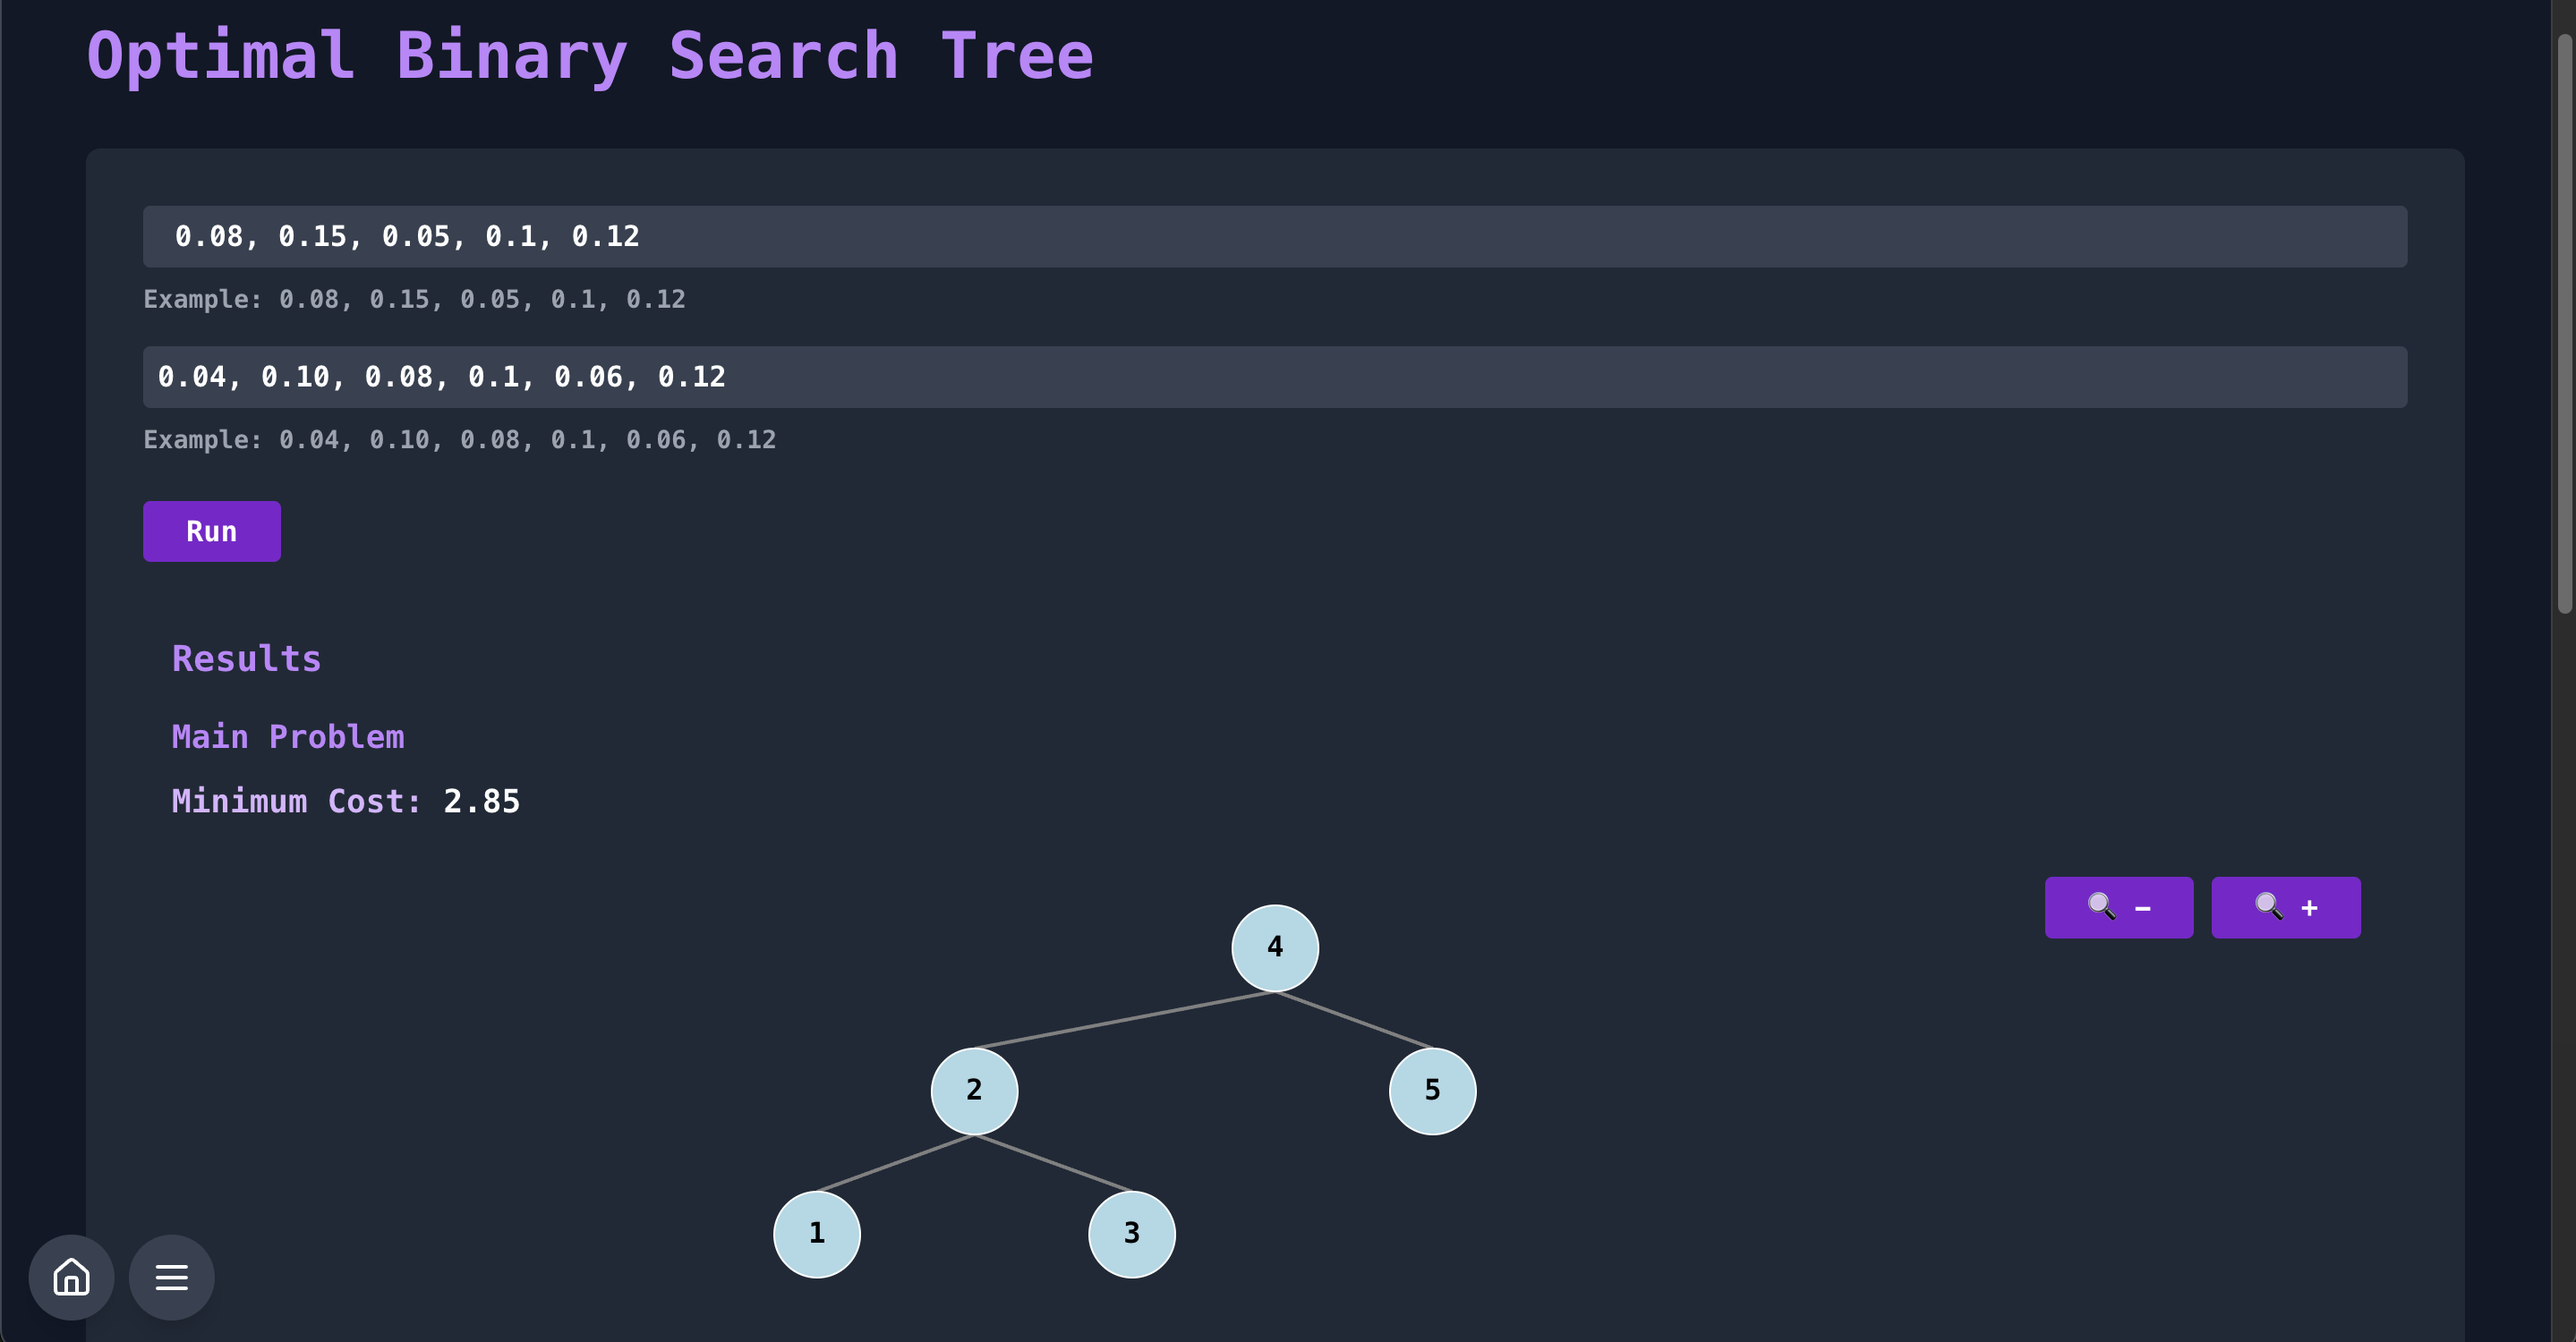
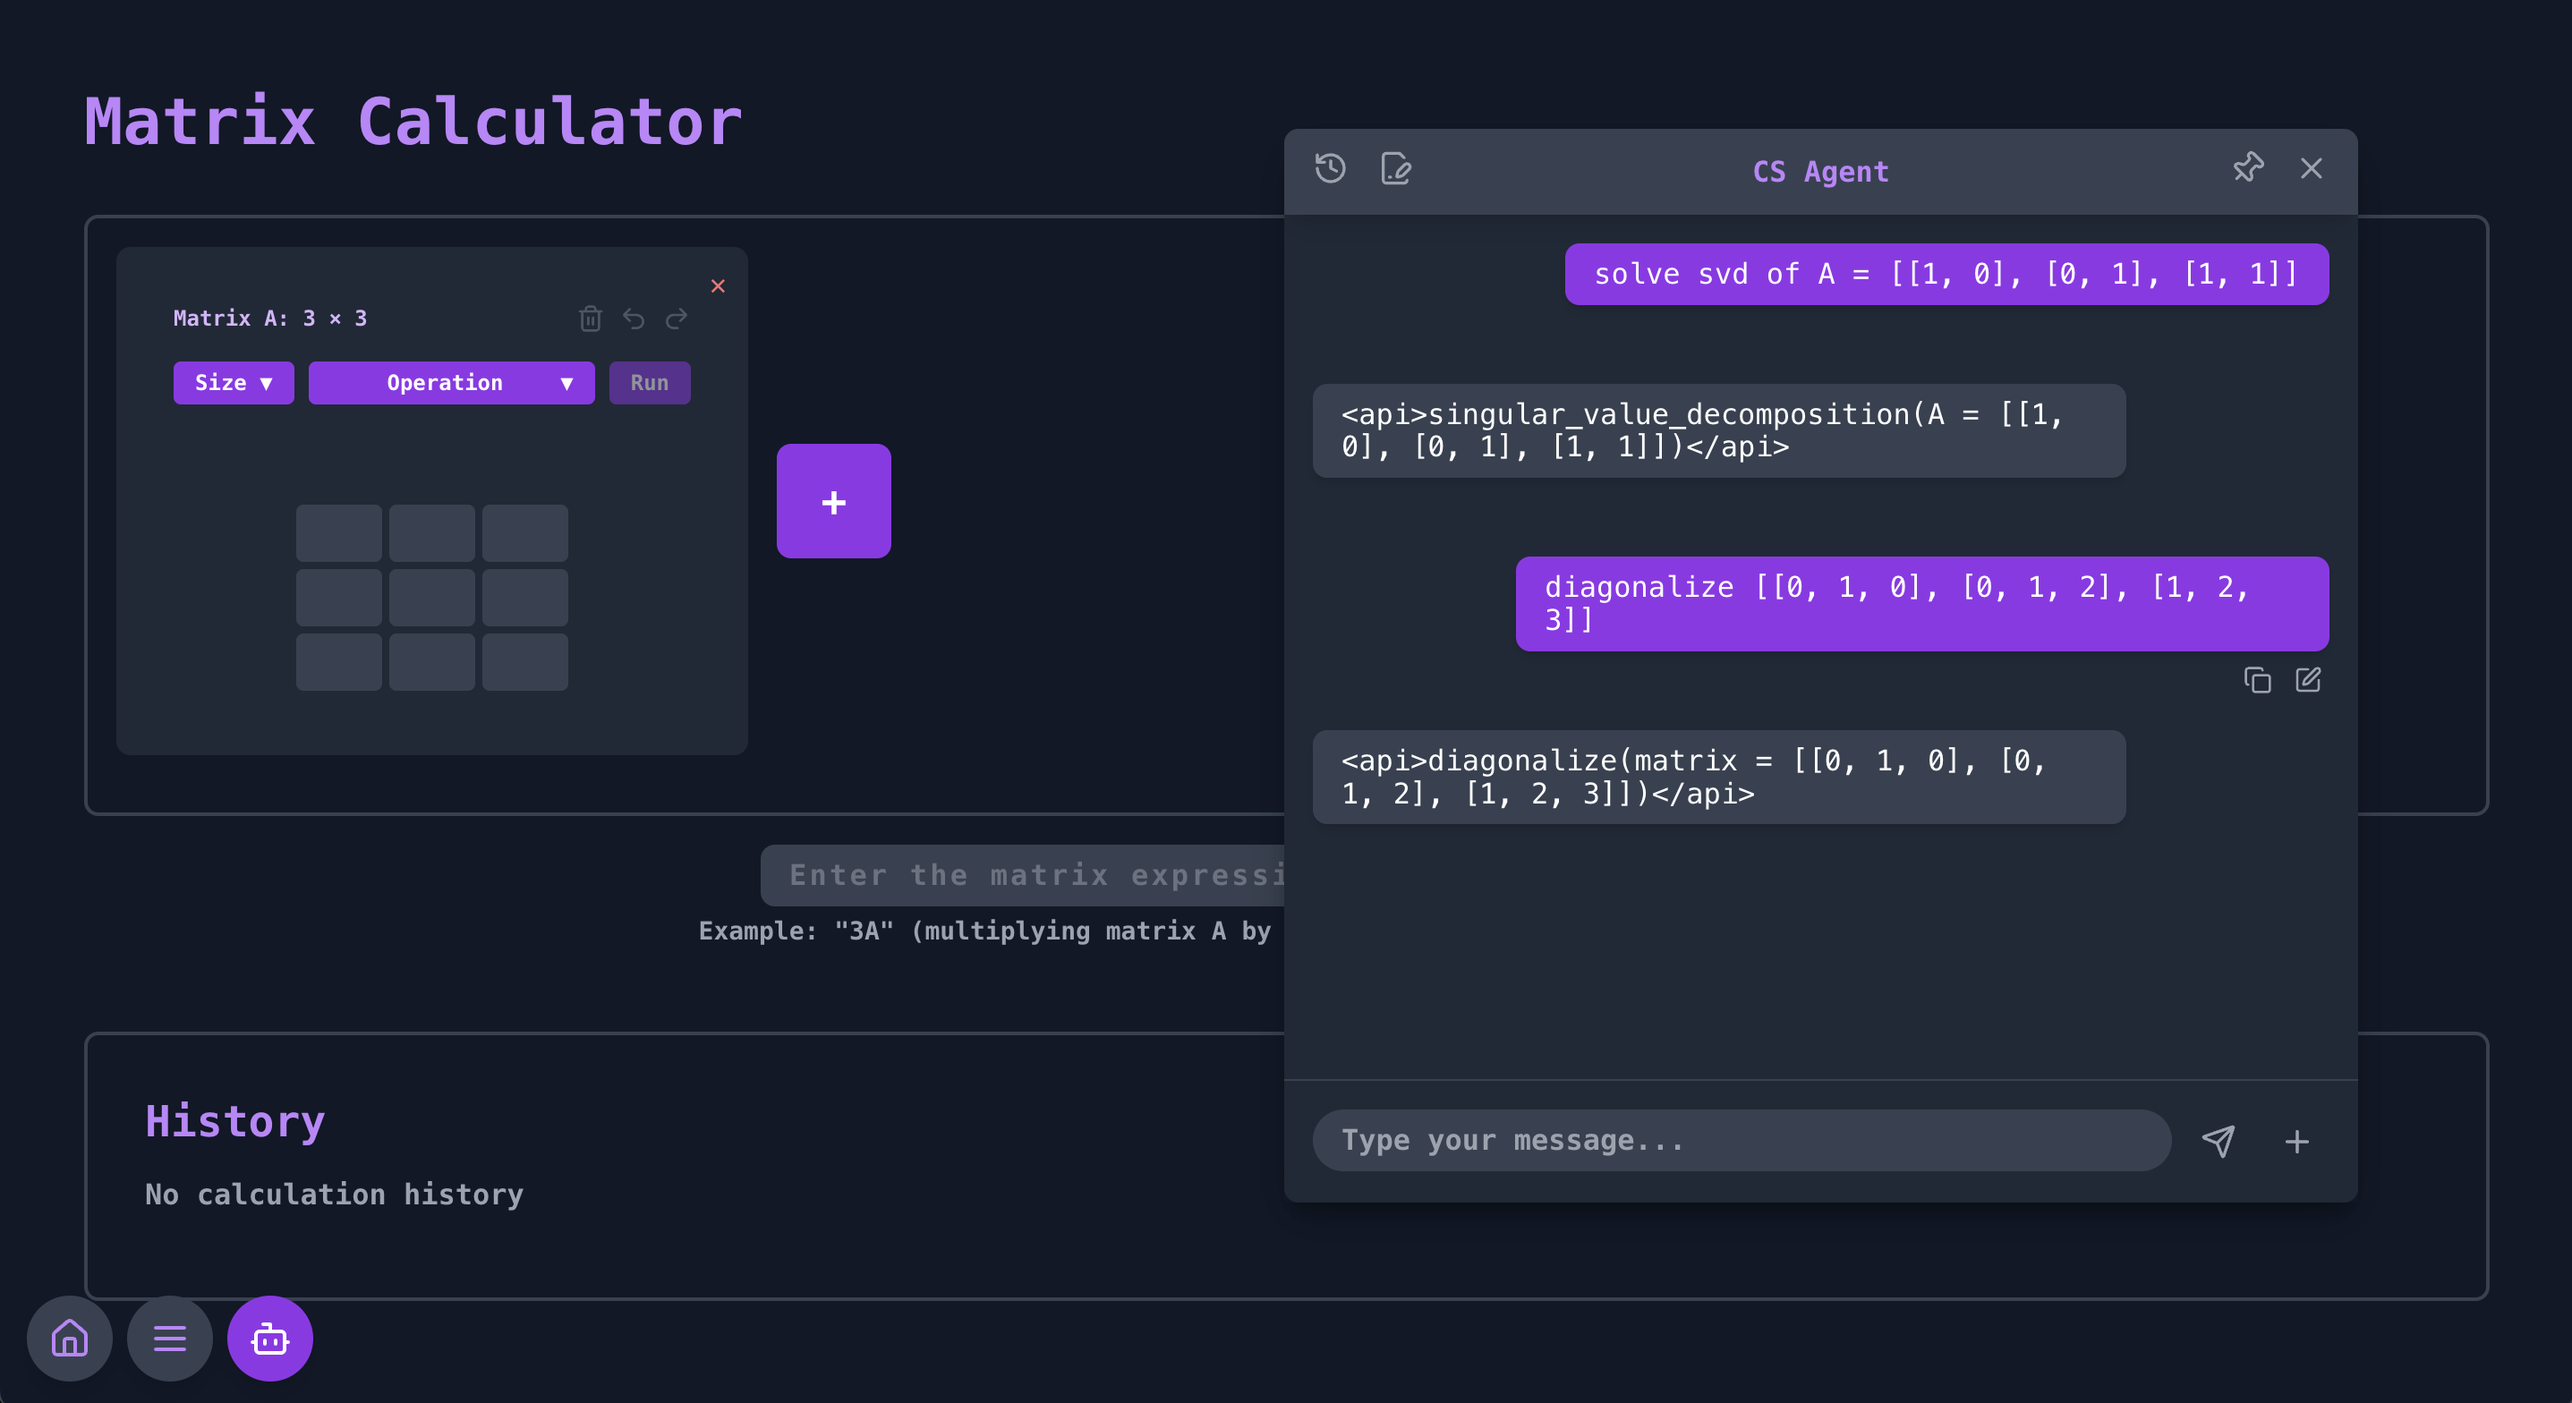
Updates

diff --git a/index.html b/index.html
@@ -4,7 +4,7 @@
     <meta charset="UTF-8" />
     <link rel="icon" type="image/svg+xml" href="/assets/icon/favicon.png" />
     <meta name="viewport" content="width=device-width, initial-scale=1.0" />
-    <meta name="version" content="202505141242" />
+    <meta name="version" content="202505211418" />
     <title>Howard</title>
     <script type="module" crossorigin src="/assets/index-7LRV-KL8.js"></script>
     <link rel="stylesheet" crossorigin href="/assets/index-DFqRsZ4d.css">
